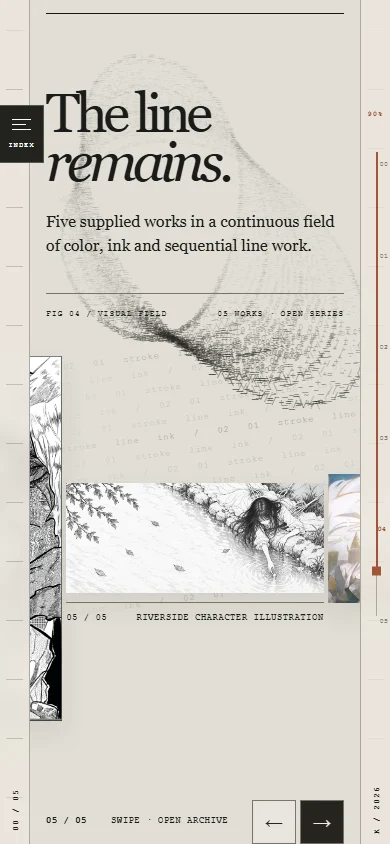
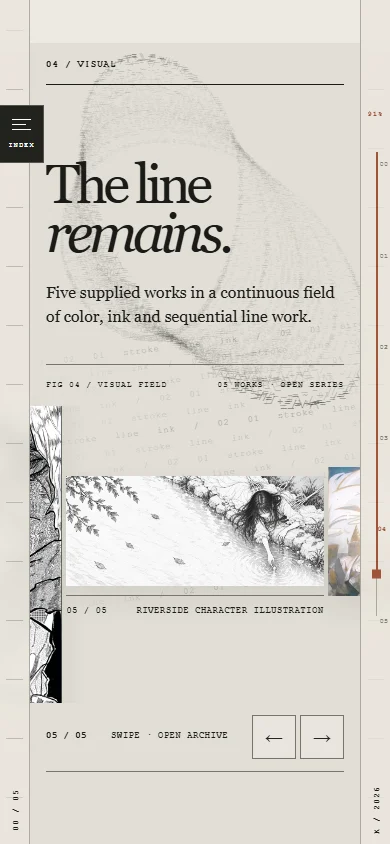
Tighten mobile artwork stage and loop QA

diff --git a/src/components/gallery-ribbon.tsx b/src/components/gallery-ribbon.tsx
@@ -1,6 +1,6 @@
 "use client";
 
-import { useCallback, useEffect, useRef, useState, type KeyboardEvent, type PointerEvent } from "react";
+import { useCallback, useEffect, useRef, useState, type CSSProperties, type KeyboardEvent, type PointerEvent } from "react";
 import Image from "next/image";
 import { galleryWorks, type GalleryWork } from "@/content/gallery";
 import { homeCopy, type Language } from "@/content/home-copy";
@@ -57,7 +57,12 @@ function MobileGallery({ language }: { language: Language }) {
     const first = window?.querySelector<HTMLElement>('.v21-gallery-mobile-item[data-index="0"]:not([data-clone])');
     if (!window || !first) return;
     window.scrollLeft = positionFor(first, window);
-    const resize = new ResizeObserver(() => { window.scrollLeft = positionFor(window.querySelector<HTMLElement>(`.v21-gallery-mobile-item[data-index="${activeRef.current}"]:not([data-clone])`) ?? first, window); });
+    let width = window.clientWidth;
+    const resize = new ResizeObserver(() => {
+      if (window.clientWidth === width) return;
+      width = window.clientWidth;
+      window.scrollLeft = positionFor(window.querySelector<HTMLElement>(`.v21-gallery-mobile-item[data-index="${activeRef.current}"]:not([data-clone])`) ?? first, window);
+    });
     resize.observe(window);
     return () => { resize.disconnect(); if (settleRef.current) clearTimeout(settleRef.current); if (frameRef.current) cancelAnimationFrame(frameRef.current); };
   }, [positionFor]);
@@ -90,8 +95,9 @@ function MobileGallery({ language }: { language: Language }) {
     }
   }
 
-  return <div className="v21-gallery-mobile" data-active-index={activeIndex + 1}>
-    <div className="v21-gallery-mobile-window" ref={windowRef} role="region" aria-roledescription="artwork reel" aria-label={language === "zh" ? "视觉作品，左右滑动浏览" : "Visual works, swipe left or right"} tabIndex={0} onScroll={onScroll} onKeyDown={onKeyDown}>
+  const stageHeight = galleryWorks[activeIndex].shape === "portrait" ? "min(118vw, 470px)" : "min(76vw, 325px)";
+  return <div className="v21-gallery-mobile" data-active-index={activeIndex + 1} style={{ "--mobile-stage-height": stageHeight } as CSSProperties}>
+    <div className="v21-gallery-mobile-window" ref={windowRef} role="region" aria-roledescription={language === "zh" ? "作品画廊" : "artwork reel"} aria-label={language === "zh" ? "视觉作品，左右滑动浏览" : "Visual works, swipe left or right"} tabIndex={0} onScroll={onScroll} onKeyDown={onKeyDown}>
       <div className="v21-gallery-mobile-track">
         {reel.map((work, position) => {
           const clone = position === 0 || position === reel.length - 1;

diff --git a/src/app/v2.css b/src/app/v2.css
@@ -581,9 +581,9 @@ body:has(.v2-home) .site-footer { display: none; }
 @media (max-width: 640px) {
   .v21-gallery-window, .v21-gallery-bottomline { display: none; }
   .v21-gallery-mobile { display: block; --mobile-work-width: calc((100vw - 2 * var(--v2-rail)) * .78); }
-  .v21-gallery-mobile-window { position: relative; width: 100%; box-sizing: border-box; overflow-x: auto; overflow-y: hidden; overscroll-behavior-inline: contain; scroll-snap-type: x mandatory; scroll-padding-inline: calc((100vw - var(--mobile-work-width)) / 2); scrollbar-width: none; touch-action: pan-x pan-y; outline-offset: -5px; }
+  .v21-gallery-mobile-window { position: relative; width: 100%; height: var(--mobile-stage-height); box-sizing: border-box; overflow-x: auto; overflow-y: hidden; overscroll-behavior-inline: contain; scroll-snap-type: x mandatory; scroll-padding-inline: calc((100vw - var(--mobile-work-width)) / 2); scrollbar-width: none; touch-action: pan-x pan-y; outline-offset: -5px; transition: height .25s ease; }
   .v21-gallery-mobile-window::-webkit-scrollbar { display: none; }
-  .v21-gallery-mobile-track { display: flex; align-items: center; gap: 4px; width: max-content; min-height: min(116vw, 470px); padding-inline: calc((100vw - var(--mobile-work-width)) / 2); }
+  .v21-gallery-mobile-track { display: flex; align-items: center; gap: 4px; width: max-content; height: 100%; padding-inline: calc((100vw - var(--mobile-work-width)) / 2); }
   .v21-gallery-mobile-item { box-sizing: border-box; flex: 0 0 var(--mobile-work-width); width: var(--mobile-work-width); margin: 0; scroll-snap-align: center; scroll-snap-stop: always; }
   .v21-gallery-mobile-image { display: flex; align-items: center; justify-content: center; width: 100%; max-height: 370px; background: #e8e5de; box-shadow: 0 12px 26px rgba(35,32,27,.08); }
   .v21-gallery-mobile-image img { display: block; width: 100%; height: 100%; object-fit: contain; }
@@ -599,4 +599,7 @@ body:has(.v2-home) .site-footer { display: none; }
 }
 @media (max-width: 380px) {
   .v21-gallery-mobile-controls > span:nth-child(2) { display: none; }
+}
+@media (max-width: 640px) and (prefers-reduced-motion: reduce) {
+  .v21-gallery-mobile-window { transition: none; }
 }

diff --git a/tests/site.spec.ts b/tests/site.spec.ts
@@ -225,6 +225,12 @@ test("mobile reel wraps at both ends and remains manually swipable in reduced mo
   await expect(gallery.locator(".v21-gallery-mobile-controls > span").first()).toHaveText("05 / 05");
   await gallery.getByRole("button", { name: "Next artwork" }).click();
   await expect(gallery.locator(".v21-gallery-mobile-controls > span").first()).toHaveText("01 / 05");
+  await expect.poll(() => reel.evaluate((window) => {
+    const middle = window.getBoundingClientRect().left + window.clientWidth / 2;
+    const items = Array.from(window.querySelectorAll<HTMLElement>(".v21-gallery-mobile-item"));
+    const nearest = items.reduce((best, item) => Math.abs(item.getBoundingClientRect().left + item.clientWidth / 2 - middle) < Math.abs(best.getBoundingClientRect().left + best.clientWidth / 2 - middle) ? item : best, items[0]);
+    return nearest.dataset.clone ?? "real";
+  })).toBe("real");
   expect(await reel.evaluate((node) => getComputedStyle(node).scrollSnapType)).toContain("mandatory");
   expect(await page.evaluate(() => document.documentElement.scrollWidth - document.documentElement.clientWidth)).toBeLessThanOrEqual(1);
 });

diff --git a/docs/visual-qa/mobile-gallery/README.md b/docs/visual-qa/mobile-gallery/README.md
@@ -2,7 +2,7 @@
 
 `node scripts/capture-mobile-gallery.mjs` captures the built static export in Chromium at `http://127.0.0.1:4173/`. These are browser viewport captures, not physical phone or production evidence.
 
-The mobile patch applies at 640px and below. The original two-track desktop artwork band remains in place at 768px and 1440px. A separate phone reel reads the same five works from `src/content/gallery.ts`. It uses native horizontal scrolling and CSS snap; a copy of the last and first works at the boundaries gives continuity, then the scroll position silently returns to the corresponding real work. The live index is calculated from the item nearest the viewport center. The phone reel has no automatic movement, including when reduced motion is requested. Keyboard arrows and 44px previous/next controls supplement touch swipe.
+The mobile patch applies at 640px and below. The original two-track desktop artwork band remains in place at 768px and 1440px. A separate phone reel reads the same five works from `src/content/gallery.ts`. It uses native horizontal scrolling and CSS snap; a copy of the last and first works at the boundaries gives continuity, then the scroll position silently returns to the corresponding real work. The live index is calculated from the item nearest the viewport center. The stage height follows the current work's portrait or landscape shape to avoid excess blank space, and the viewport clips tall neighboring previews. The phone reel has no automatic movement, including when reduced motion is requested. Keyboard arrows and 44px previous/next controls supplement touch swipe.
 
 | View | Files |
 | --- | --- |
